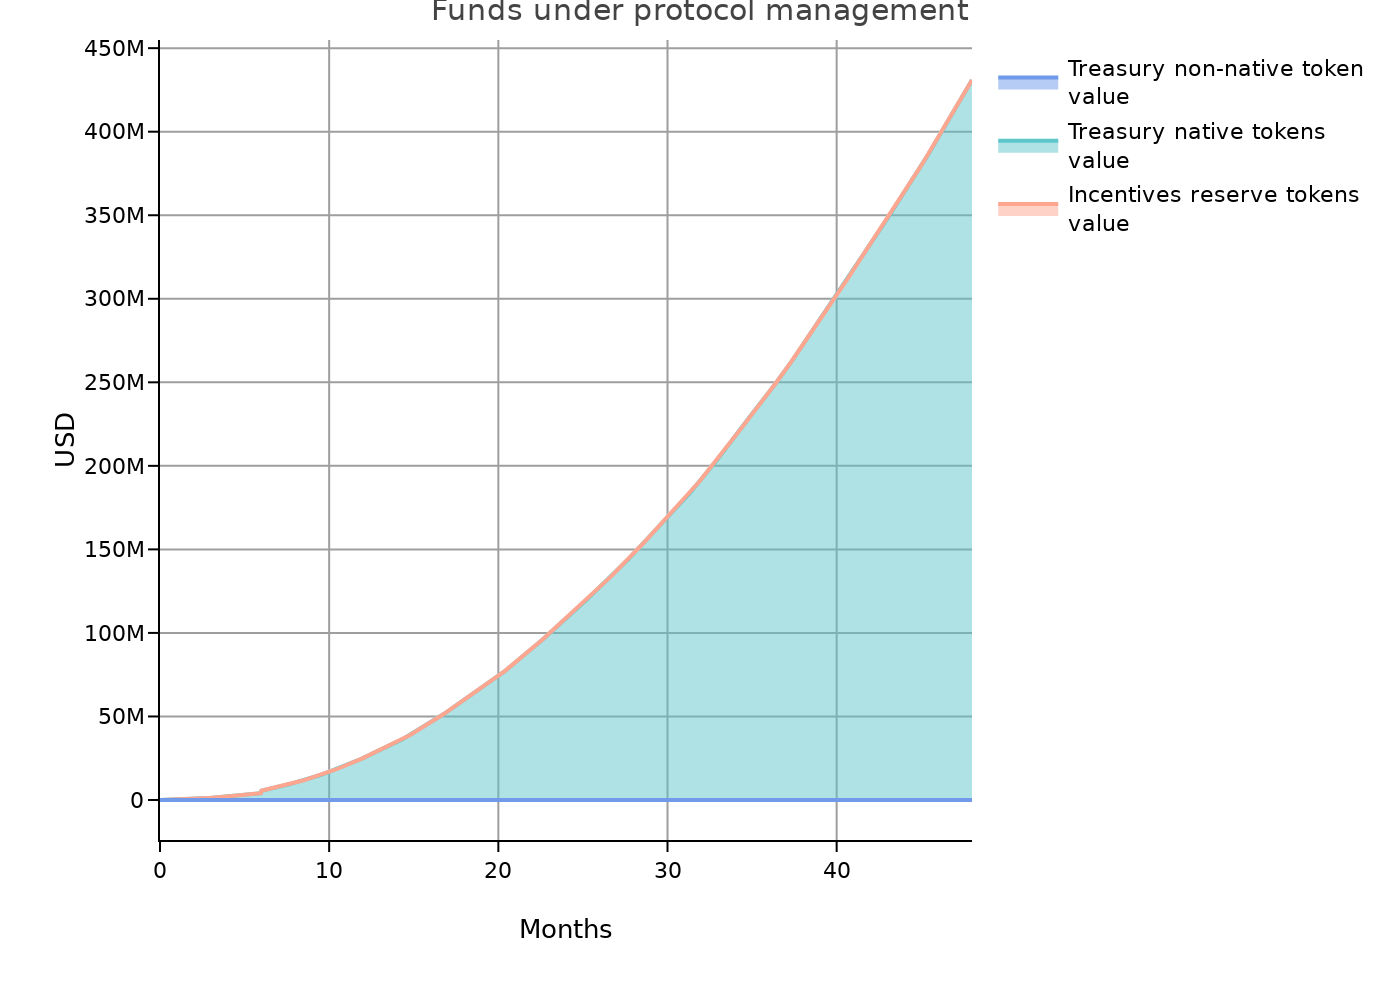
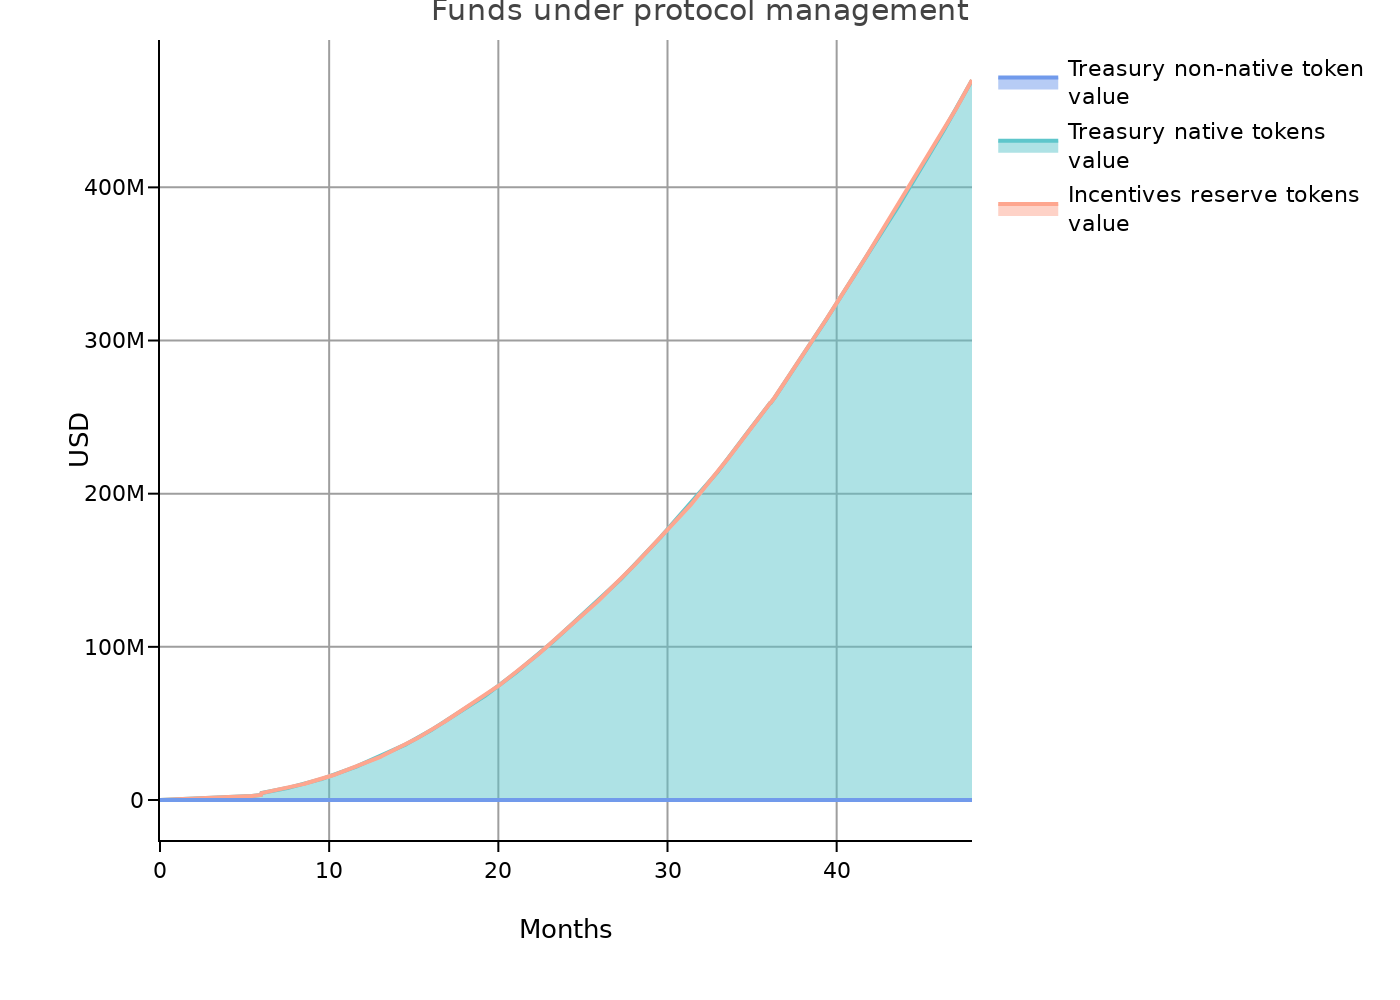
chore: reset rising

diff --git a/SEP/SEP-003/README.md b/SEP/SEP-003/README.md
@@ -185,7 +185,7 @@ Based on the simulation, the MMC Token is projected to evolve in value as follow
 
 ### Protocol fees
 
-The chart below shows how protocol fees are expected to evolve over time and how they will be distributed:
+The following chart showcases how the fees generated by the protocol are expected to evolve over time, and how they will be distributed.
 
 ![Token fees](resources/protocol.png)
 
@@ -193,15 +193,15 @@ By year 4, the protocol is expected to have generated a total value of approxima
 
 ### Treasury
 
-Below is the projected profit and loss (P&L) for the treasury:
+The treasury is expected to have the following profit and loss:
 
 ![Treasury P&L](resources/treasury_pnl.png)
 
-The following graph shows the expected funds under management:
+The treasury is expected to have the following funds under management:
 
 ![Funds under management](resources/funds_under_management.png)
 
-By year 4, the treasury is projected to manage a total value of approximately **$431,000,000**, with 99% held in native tokens.
+By year 4, the treasury is projected to manage a total value of approximately **$470,000,000**, with 99% held in native tokens.
 
 
 ### Conclusion
